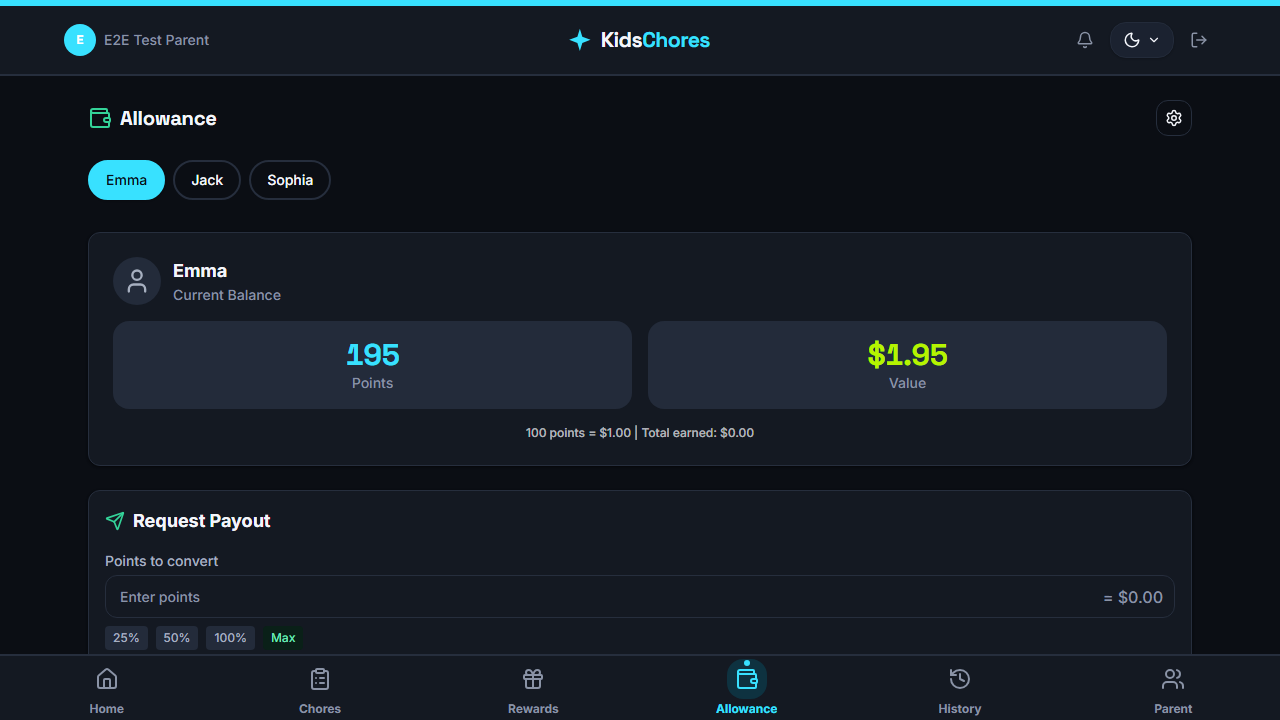
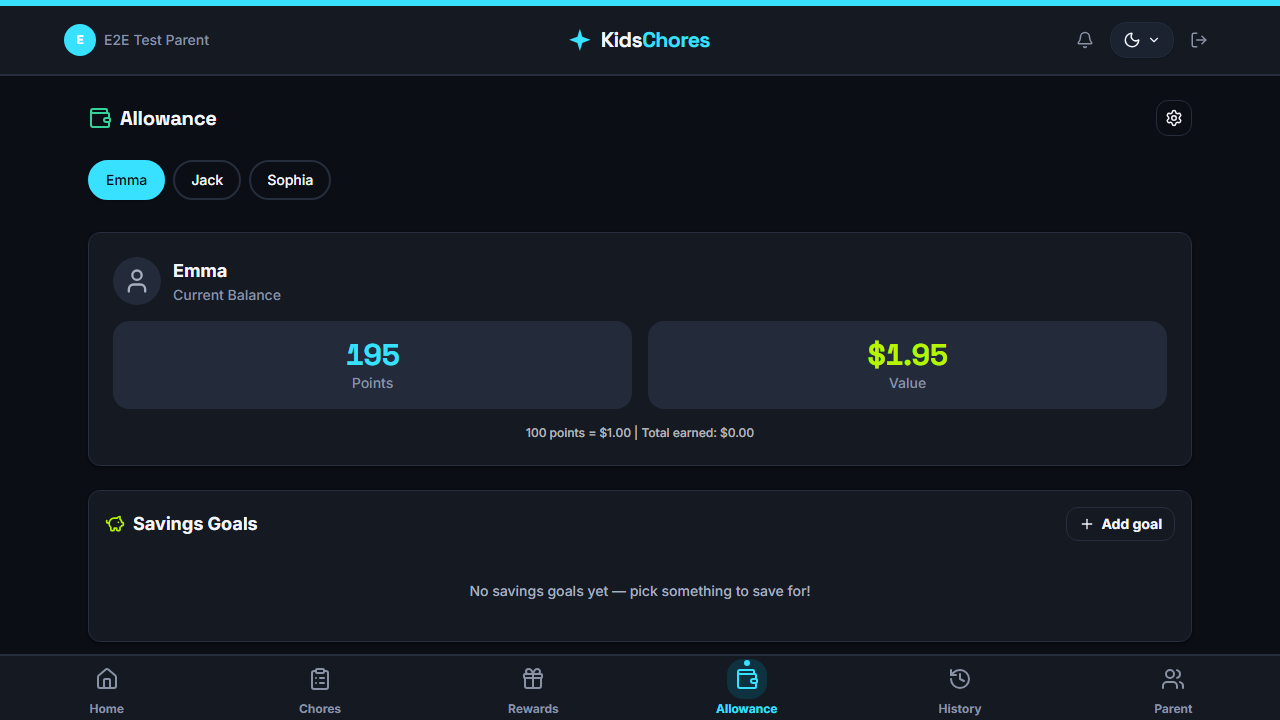
docs: v0.16.0 follow-through — ROADMAP strike, README feature bullet, screenshot refresh
- ROADMAP Tier 2.5 savings-goals bullet marked shipped (v0.16.0)
- README features: Savings Goals bullet + test-count refresh (75 pytest / ~250 e2e)
- 12 README screenshots recaptured vs the v0.16.0 test instance (Allowance
  now shows the Savings Goals card); all eyeballed both themes, set stays 26

diff --git a/ROADMAP.md b/ROADMAP.md
@@ -39,7 +39,7 @@ Post-`v0.8.0` improvement backlog, from the 2026-07 whole-project audit. `v0.8.0
 Operator-selected 2026-07-10; full designs in `docs/UX-REVIEW-2026-07.md` §5. Sequenced after the P0 fixes + shared components; each is additive to the existing chore→points→reward loop.
 
 - ~~**Badges & Challenges engine**~~ — ✅ **Done 2026-07-11 (both phases).** The orphaned `Badge` table is now the award catalog (seeded with slug ids matching the frontend's 12-badge definitions); `services/gamification.py` evaluates thresholds (points / chore_count / streak / shared_chore_count / early_bird / first_redemption — 9 of 12 defaults auto-award; `special` rows are parent-granted via `POST /api/badges/{id}/award/{kid_id}`) on the chore-approve path, the reward-redeem path, and the nightly streak job (the `# Future: Trigger celebration` TODO is realized). Newly-earned badges return in the approve response + push-notify the kid; the kid's device fires a full-screen `BadgeCelebration` when their badge list grows. Phase 2: `Challenge` model (time-boxed, chore_count|points_earned targets, kid scoping, badge and/or bonus-point rewards, idempotent `completed_kids` ledger; progress computed live — no progress table); admin **Challenges tab** (templates + per-kid progress bars), kid-facing progress cards on Chores. Home kid cards render REAL badges via `BadgeDisplay`. 11 new pytest cases (33 total). Engine gotcha pinned in tests: the `autoflush=False` session needs an explicit `db.flush()` before progress queries. `Bonus`/`Penalty` stay dormant (deliberate). **[shipped]**
-- **Savings goals** — the #1 motivator pattern in Greenlight/Rooster-class apps. New `SavingsGoal` model denominated in **points** (renders as $ via the existing `points_per_dollar` — deliberately sidesteps the float-money D7 dependency); `ProgressRing` on Home kid card + Allowance; celebration + one-tap payout-request on completion; parent boost via the existing adjust endpoint. **[M · high]**
+- ~~**Savings goals**~~ — ✅ **Done 2026-07-25 (v0.16.0).** `SavingsGoal` model denominated in **points** (renders as $ via the per-kid `points_per_dollar` — the float-money D7 dependency stays sidestepped); up to 3 active goals per kid, `ProgressRing` on the Home kid card + a full Savings Goals card on Allowance; one-time reach celebration with atomic one-tap convert-to-payout (`create_payout()` extracted as a shared non-committing helper; payout notes carry the goal name); parent boost via the existing adjust endpoint with a tagged, logged reason; completed goals kept as history. `reached` is derived server-side, never stored. 10 new pytest + 12 vitest + 6 e2e. **[shipped]**
 - **Kiosk / shared-tablet mode** — the self-hosted differentiator (subscription-gated in commercial apps). `/kiosk` route seeded from the `SelectKid` picker: fullscreen, big tappable today-chores, claim + celebration, idle-return to picker. Auth: a claim-only scoped session — preferred option is finally enforcing the dead `ApiToken.scopes` column (`kiosk` scope), which also closes that audit gap. Landscape-first; builds on the Tier 2 responsive pass. **[M–L · med-high]**
 
 ## Tier 3 — Data-integrity + money (invasive; do on an Alembic baseline)

diff --git a/README.md b/README.md
@@ -36,6 +36,7 @@
 - **Rewards** - Define rewards with point costs for kids to redeem
 - **Parent Approval** - Parents approve chore completions and reward redemptions
 - **Points System** - Flexible points with multipliers and adjustments
+- **Savings Goals** - Kids save toward up to 3 goals with progress rings, real-dollar amounts, a reach celebration, and one-tap cash-in to a payout request; parents can boost progress
 - **Badges & Achievements** - Automatic awards (streaks, milestones, early bird, first reward) with full-screen unlock celebrations, push notifications, and rarity-ringed badge art; parents can create custom badges
 - **Challenges** - Time-boxed goals (chore count or points earned) with live progress bars, bonus-point and badge rewards
 - **Kid Avatars** - Per-kid emoji + color picker
@@ -46,7 +47,7 @@
 - **Mobile-Responsive** - Works on phones, tablets, and desktops
 - **Security** - JWT auth (PyJWT) on all endpoints, rate limiting, bcrypt hashing, CORS restriction, unprivileged nginx, locked-down proxy trust
 - **Error Handling** - React error boundaries, global error handler, auto-toast notifications
-- **CI-Gated Testing** - 34 backend pytest tests + ~220 Playwright e2e tests (API, UI, accessibility, workflows) run on every push; Dependabot keeps dependencies fresh
+- **CI-Gated Testing** - 75 backend pytest tests + ~250 Playwright e2e tests (API, UI, accessibility, workflows) run on every push; Dependabot keeps dependencies fresh
 
 ## Screenshots
 
